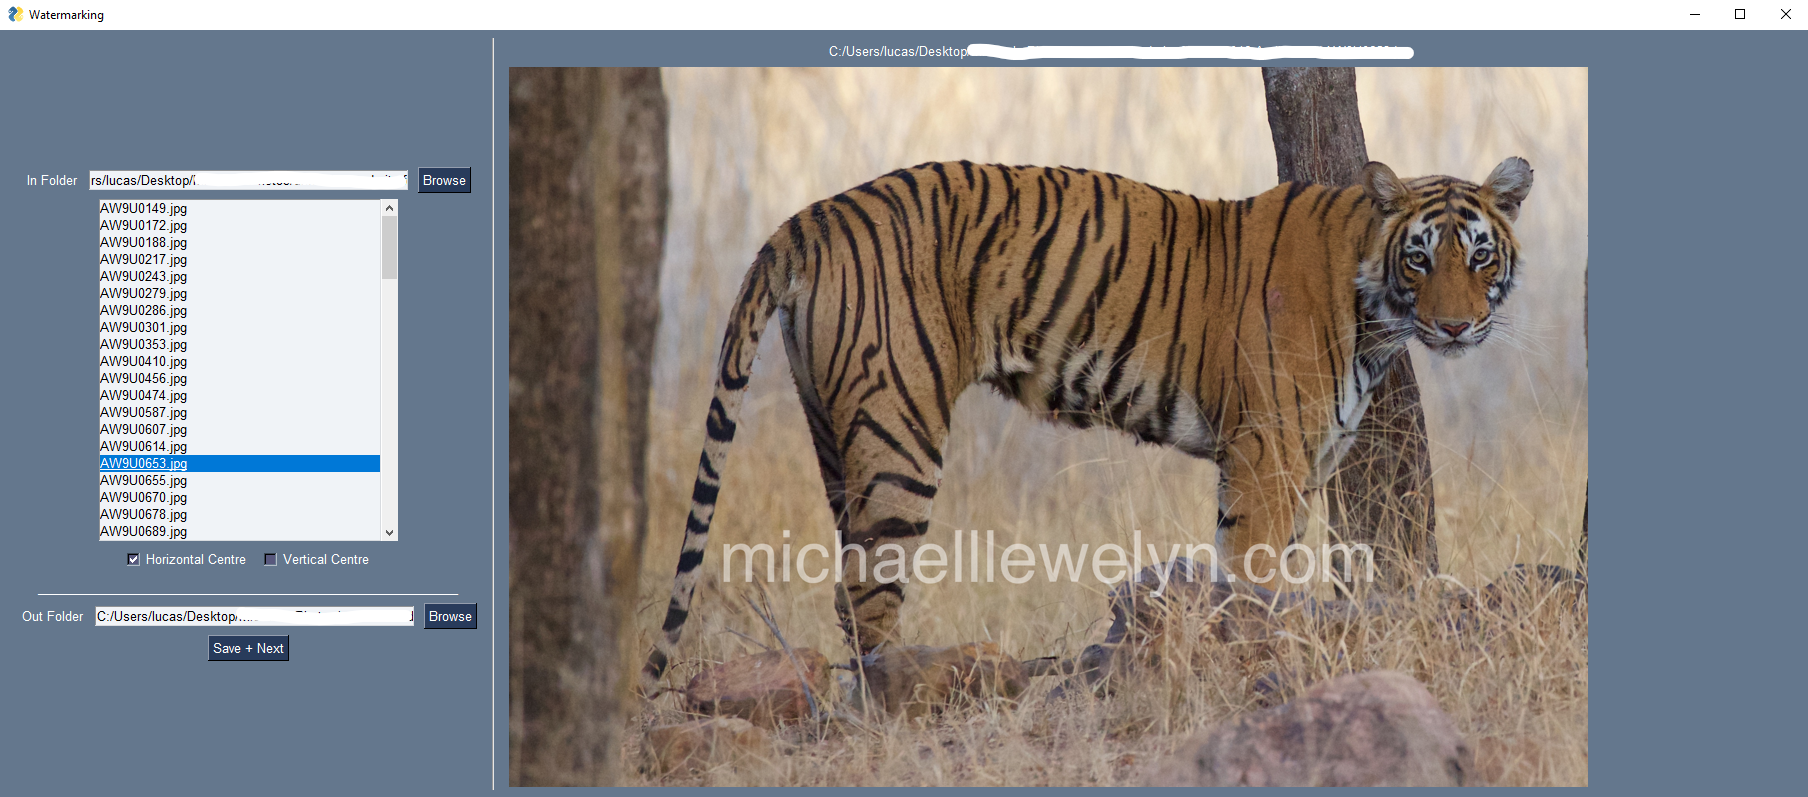
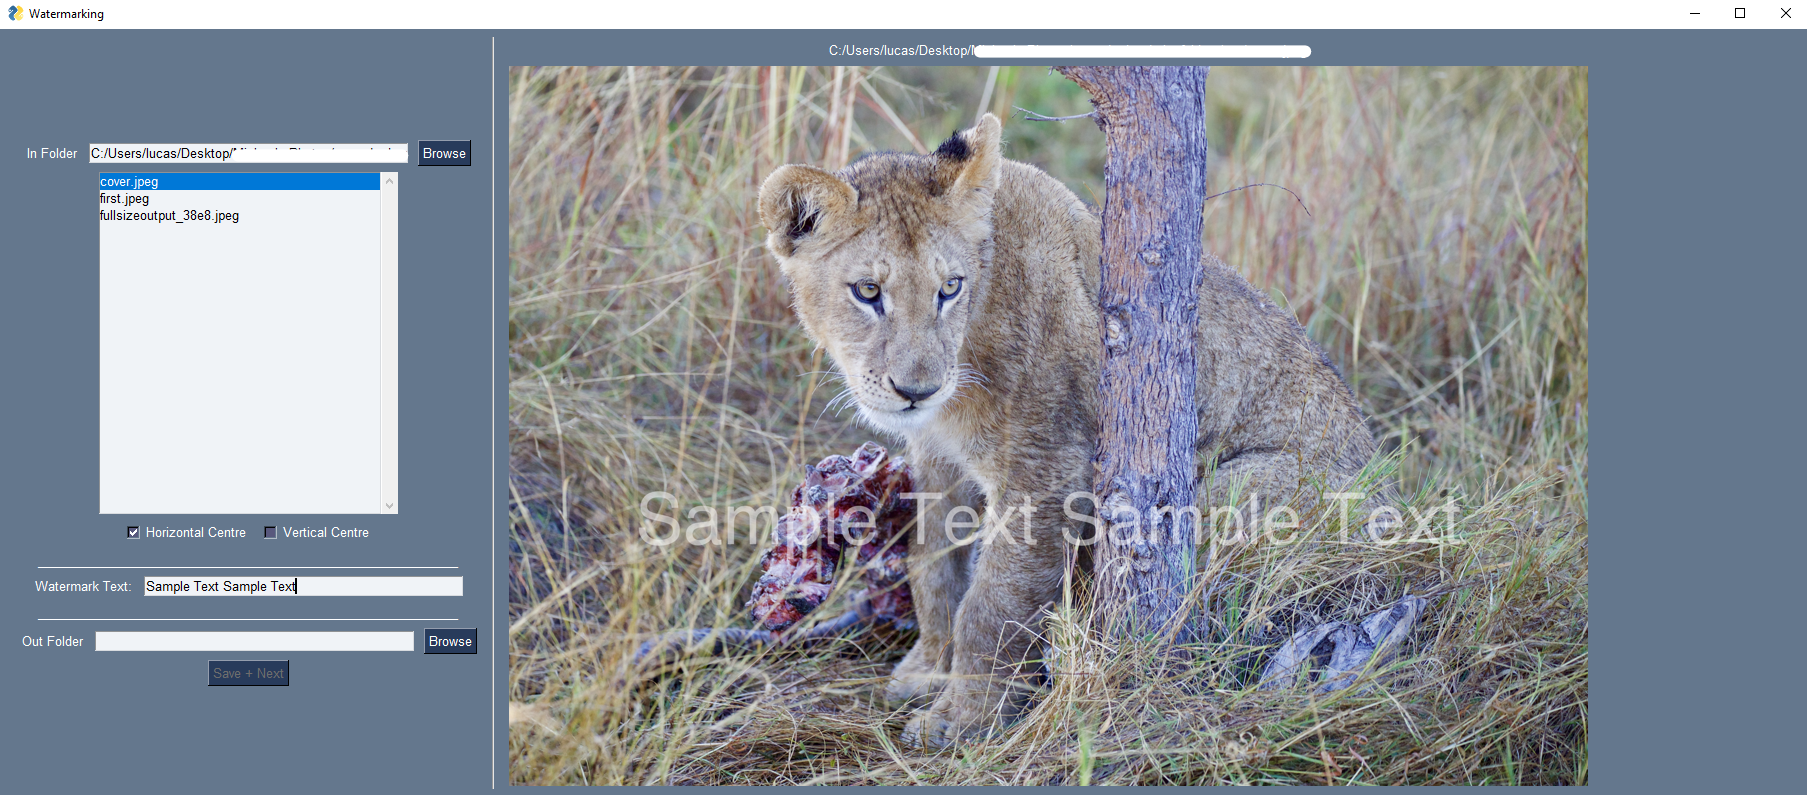
Added textbox to change the watermark text

diff --git a/watermarking-ui.py b/watermarking-ui.py
@@ -14,6 +14,8 @@ class App:
                 [Sg.Checkbox('Horizontal Centre', default=True, enable_events=True, key='-H CEN-'),
                  Sg.Checkbox('Vertical Centre', default=False, enable_events=True, key='-V CEN-')],
                 [Sg.Text('_' * 60)],
+                [Sg.Text('Watermark Text:'), Sg.InputText(enable_events=True, key='-WATERMARK TEXT-')],
+                [Sg.Text('_' * 60)],
                 [Sg.Text('Out Folder'), Sg.In(enable_events=True, key='-OUT FOLDER-'), Sg.FolderBrowse()],
                 [Sg.Save('Save + Next', key='-SAVE-', disabled=True)]]
 
@@ -38,6 +40,7 @@ class App:
         self.centre_horizontal = True
         self.centre_vertical = False
         self.out_folder = None
+        self.watermark_text = ''
 
         self._running = True
         self.event_loop()
@@ -64,6 +67,10 @@ class App:
             elif event == '-OUT FOLDER-':  # Set the folder to save files into
                 self.out_folder = values['-OUT FOLDER-']
                 self.window['-SAVE-'].update(disabled=False)
+
+            elif event == '-WATERMARK TEXT-':  # Changing the watermark text
+                self.watermark_text = values['-WATERMARK TEXT-']
+                print('new text:' + values['-WATERMARK TEXT-'])
 
             elif event == '-FILE LIST-':  # A file was chosen from the listbox
                 self.current_filename = values['-FILE LIST-'][0]
@@ -120,8 +127,8 @@ class App:
             print(f'** Error {E} **')
             pass  # something weird happened making the full filename
 
-    def watermark(self, input_image, centre, watermark_text='michaelllewelyn.com',
-                  opacity=0.5):
+    def watermark(self, input_image, centre, opacity=0.5):
+        print('using' + self.watermark_text)
         # The opaque white colour used for the watermark
         op_white = (255, 255, 255, round(255 * opacity))
 
@@ -134,7 +141,7 @@ class App:
         # Draw the watermark text on a new RGBA layer
         text_layer = Image.new("RGBA", photo.size, (255, 255, 255, 0))
         text_drawing = ImageDraw.Draw(text_layer)
-        text_width, text_height = text_drawing.textsize(watermark_text, font=font)
+        text_width, text_height = text_drawing.textsize(self.watermark_text, font=font)
 
         x_pos = min(centre[0], photo.width)
         y_pos = min(-centre[1], photo.height)
@@ -145,7 +152,7 @@ class App:
 
         text_drawing.text((x_pos - (text_width // 2),
                            y_pos - (text_height // 2)),
-                          watermark_text, font=font, fill=op_white)
+                          self.watermark_text, font=font, fill=op_white)
 
         # Merge the photo and watermark layers
         return Image.alpha_composite(photo, text_layer).convert("RGB")
